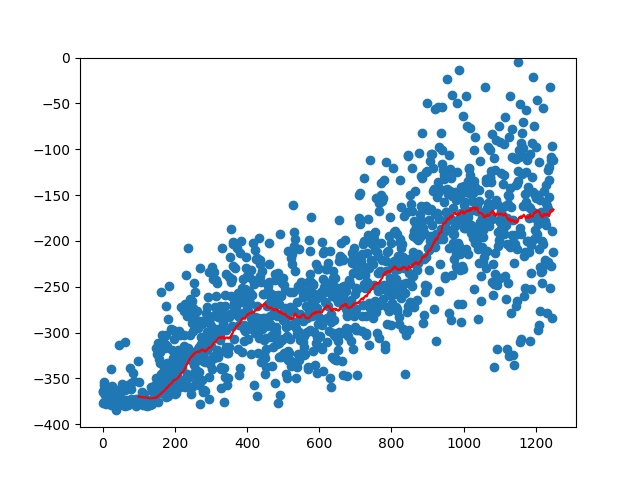
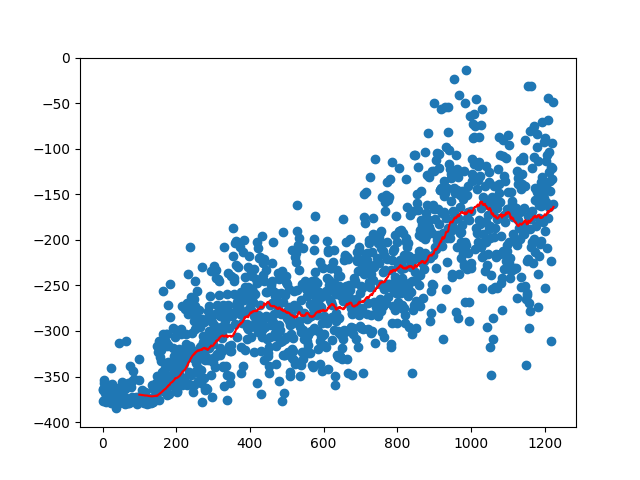
updated for neww torch version

diff --git a/main_mb.py b/main_mb.py
@@ -13,9 +13,9 @@ N_AGENTS = 8    # 8 is default for pursuit
 MAX_EPISODES = 1_000_001
 MAX_STEPS = 500 # 500 is default for pursuit
 BATCH_SIZE = 32
-rewards_history_path = f'mb_rewards_history{N_AGENTS}agents-pursuit.pth'
+rewards_history_path = f'mb_rewards_history{N_AGENTS}agents-pursuit.npy'
 saved_model_path = f"model_based/saved_models{N_AGENTS}/"
-START_EPISODE = 1_000
+START_EPISODE = 1_010
 # ================ #
 
 
@@ -57,9 +57,9 @@ def main():
     print("Agents' processes: ", agent_procs)
     rewards_history = []
     if START_EPISODE != 0:
-        rewards_history = torch.load(rewards_history_path)
-        rewards_history = rewards_history[:START_EPISODE+1]
-        print("loaded rewards history", len(rewards_history), rewards_history[-3:])
+            rewards_history = np.load(rewards_history_path).tolist()
+            rewards_history = rewards_history[:START_EPISODE+1]
+            print("loaded rewards history", len(rewards_history), rewards_history[-3:])
 
     for episode in range(START_EPISODE+1, MAX_EPISODES):
         obs, _ = env.reset()
@@ -104,7 +104,7 @@ def main():
             plt.savefig(f"mb_par{N_AGENTS}agents.png")
         if episode % 500 == 0:
             # saving data for later
-            torch.save(rewards_history, rewards_history_path)
+            np.save(rewards_history_path, rewards_history)
             for name, conn in agent_conns.items():
                 conn.send({
                     "cmd": "save",
